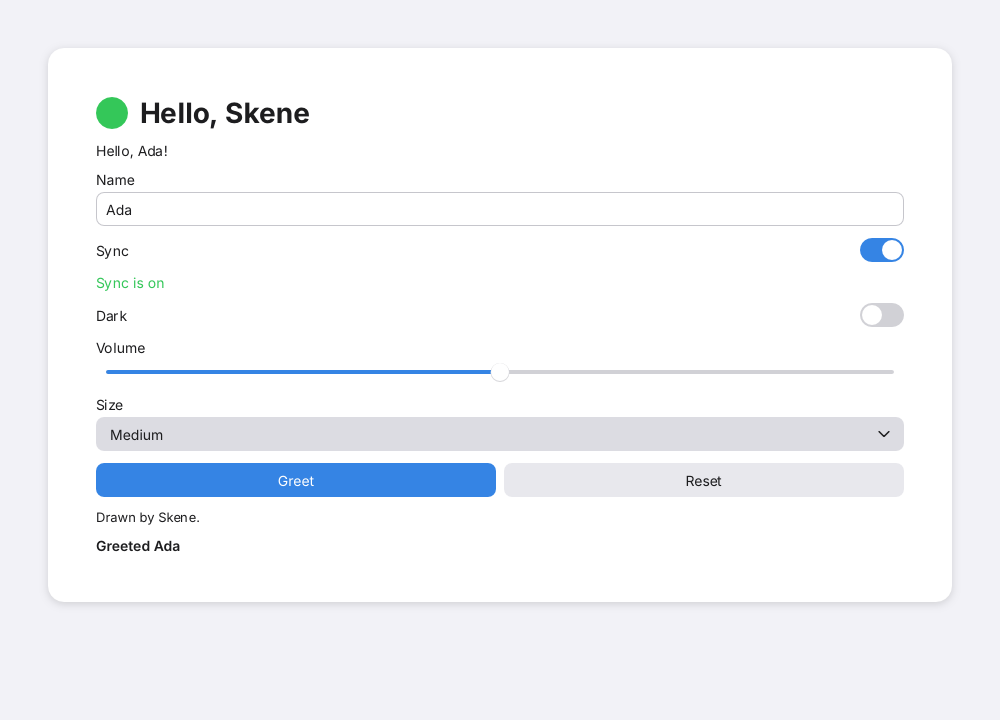
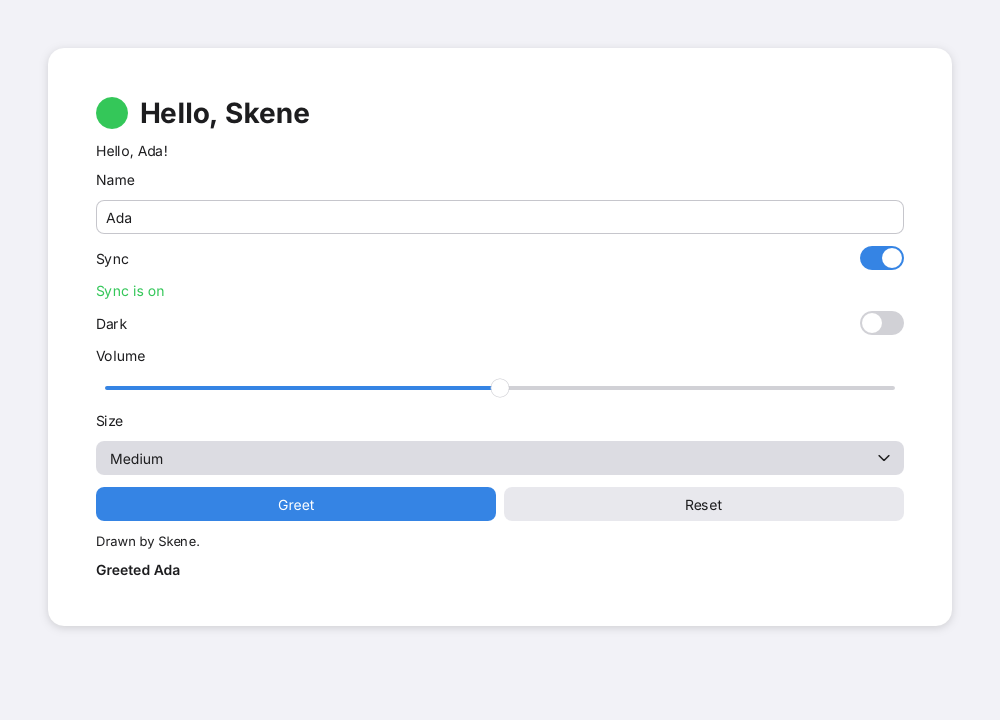
Regenerate the screenshots, keeping notes' caption above its field
A caption beside a control is now a sibling before it, so its distance
from the control is its container's spacing: in hello the Name, Volume
and Size captions sit 12 pixels from their controls where they sat 4,
and the card is 24 pixels taller. The colors and the controls' drawing
are otherwise unchanged.

Notes' composer stacks its field's caption above the field in a column
of its own, as it looked before; its screenshots match the previous
ones within 16 levels per channel.

Claude-Session: https://claude.ai/code/session_01HbN9FZH628BF7RGfxKe8qv

Changed region(s): [[0.093, 0.275, 0.93, 0.7944], [0.062, 0.825, 0.961, 0.8556]]

diff --git a/spikes/linux/notes/gui/src/lib.rs b/spikes/linux/notes/gui/src/lib.rs
@@ -56,11 +56,15 @@ fn composer(notes: Notes) -> impl View {
     .set_spacing(8)
     .set_item_alignment(AxisAlignment::End)
     .add_child(
+      // A field's caption sits before it among its siblings: a column of its own stacks the
+      // caption above the field.
       Flexible::new().set_flexibility(1).set_child(
-        TextField::new("New note")
-          .set_placeholder("Title")
-          .handle_activate(move || notes.add())
-          .bind_text(notes.draft),
+        Column::new().set_spacing(4).add_child(
+          TextField::new("New note")
+            .set_placeholder("Title")
+            .handle_activate(move || notes.add())
+            .bind_text(notes.draft),
+        ),
       ),
     )
     .add_child(Button::new("Add").handle_activate(move || notes.add()))
